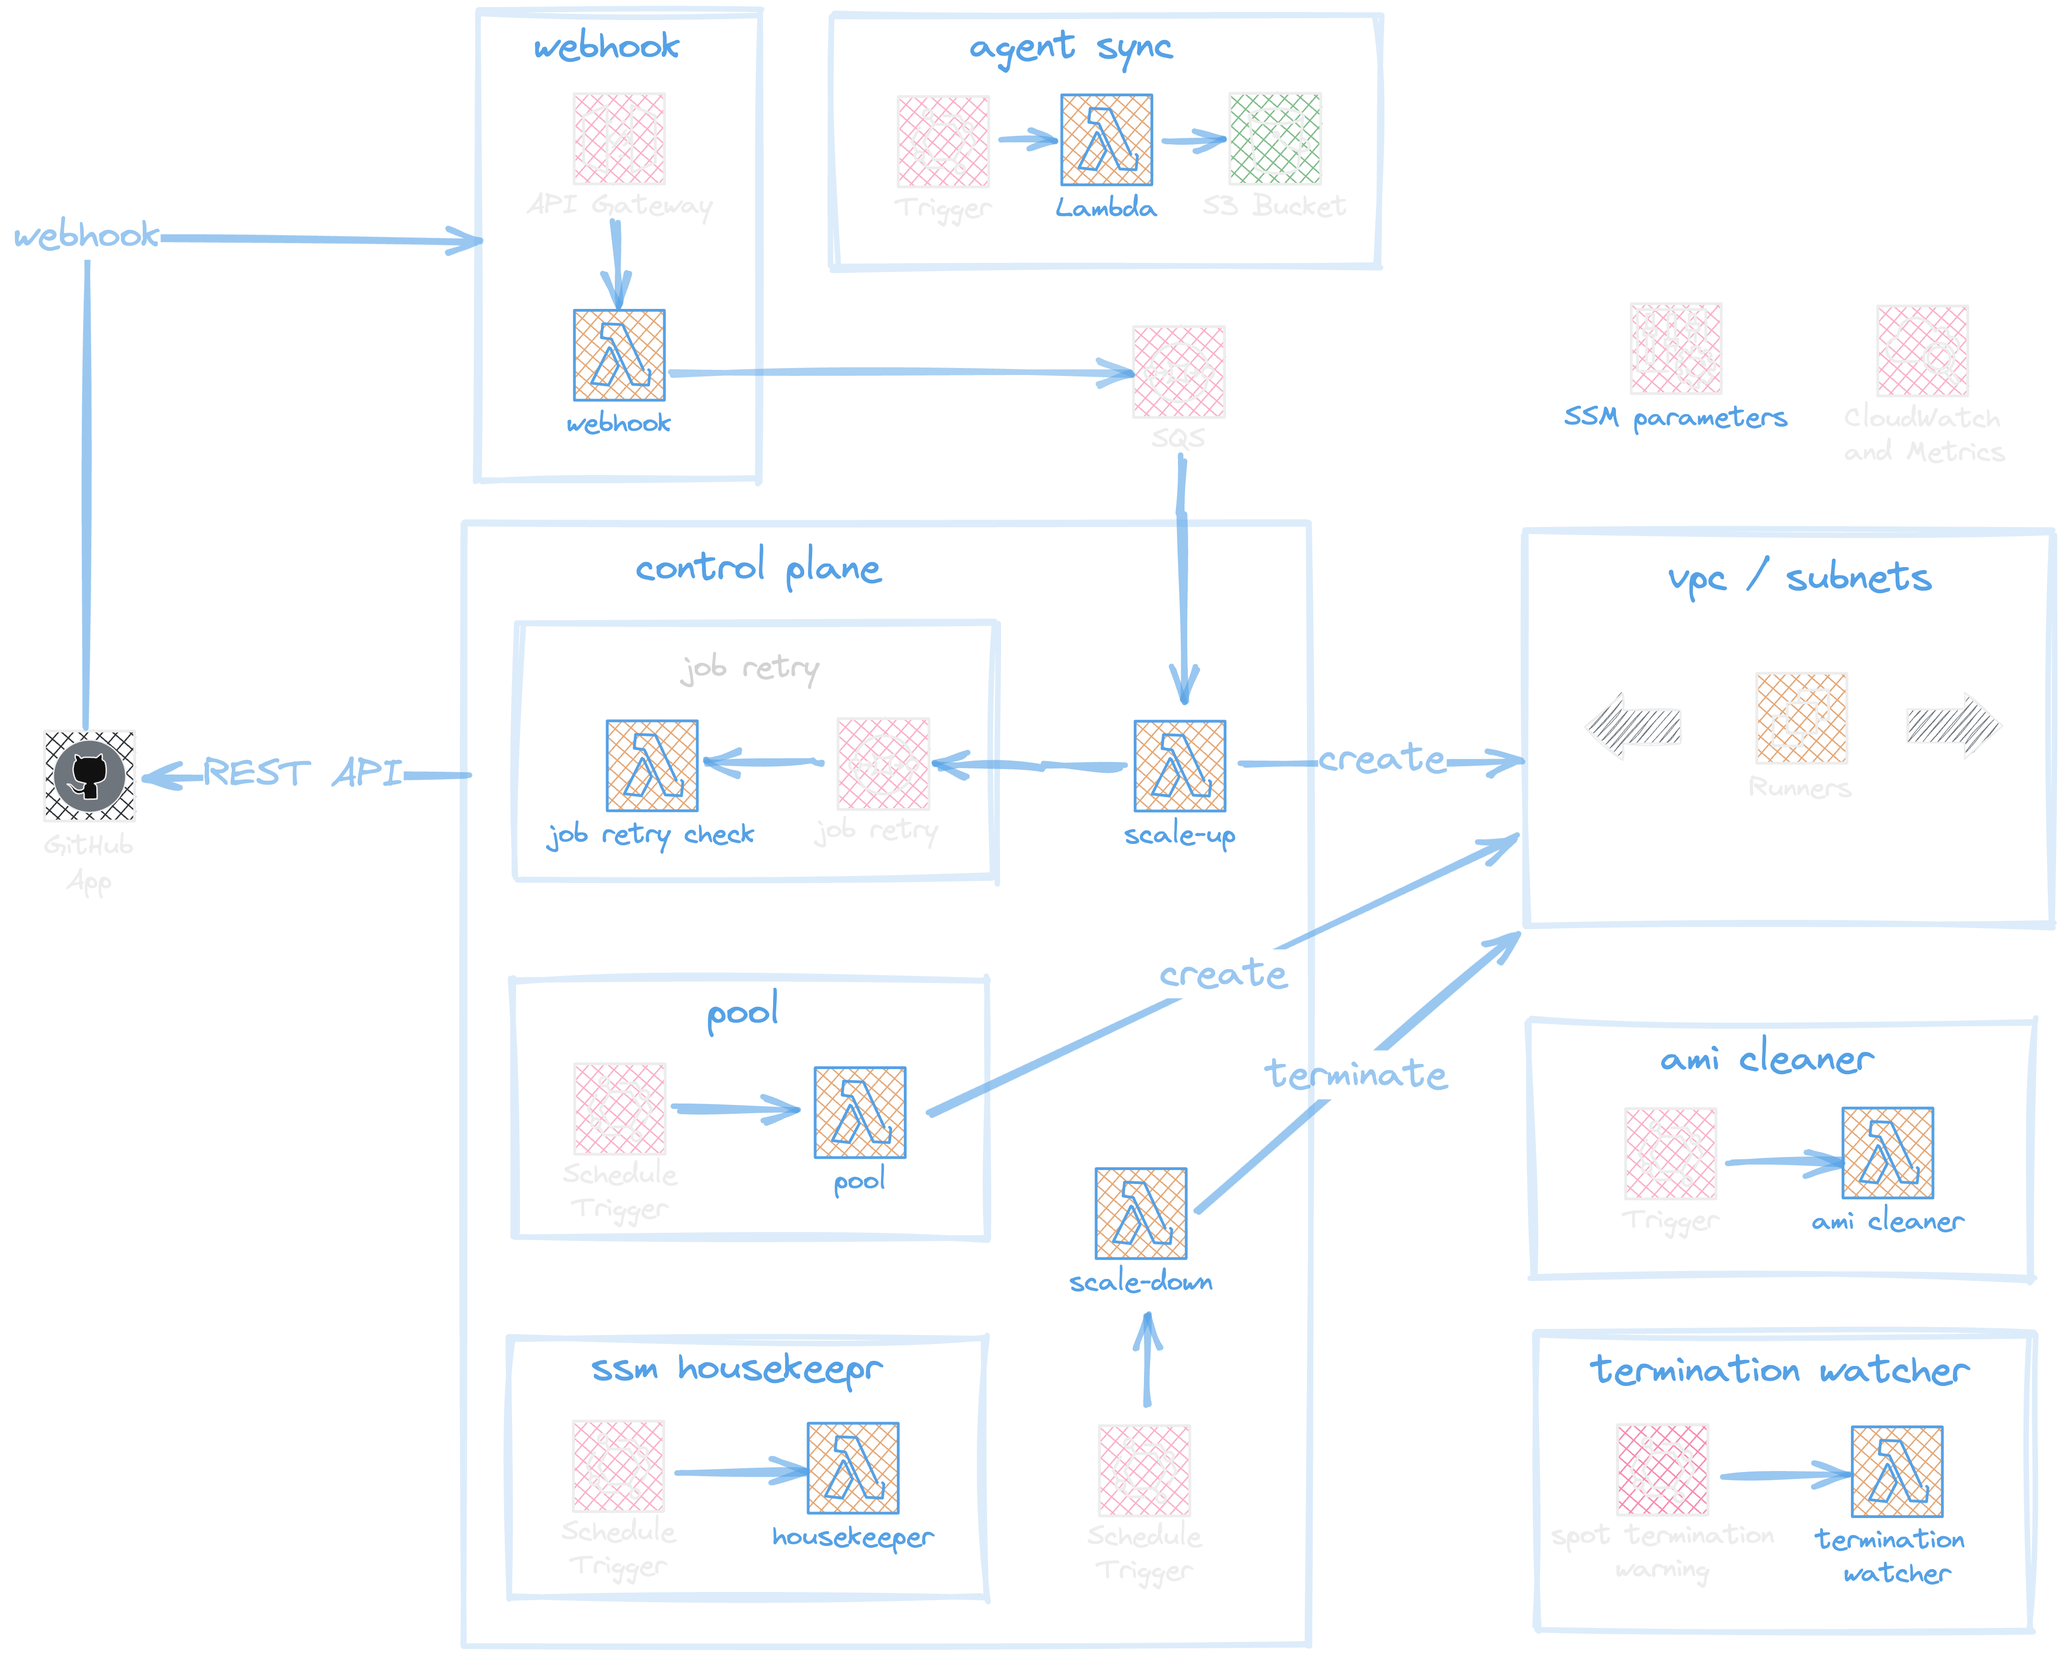
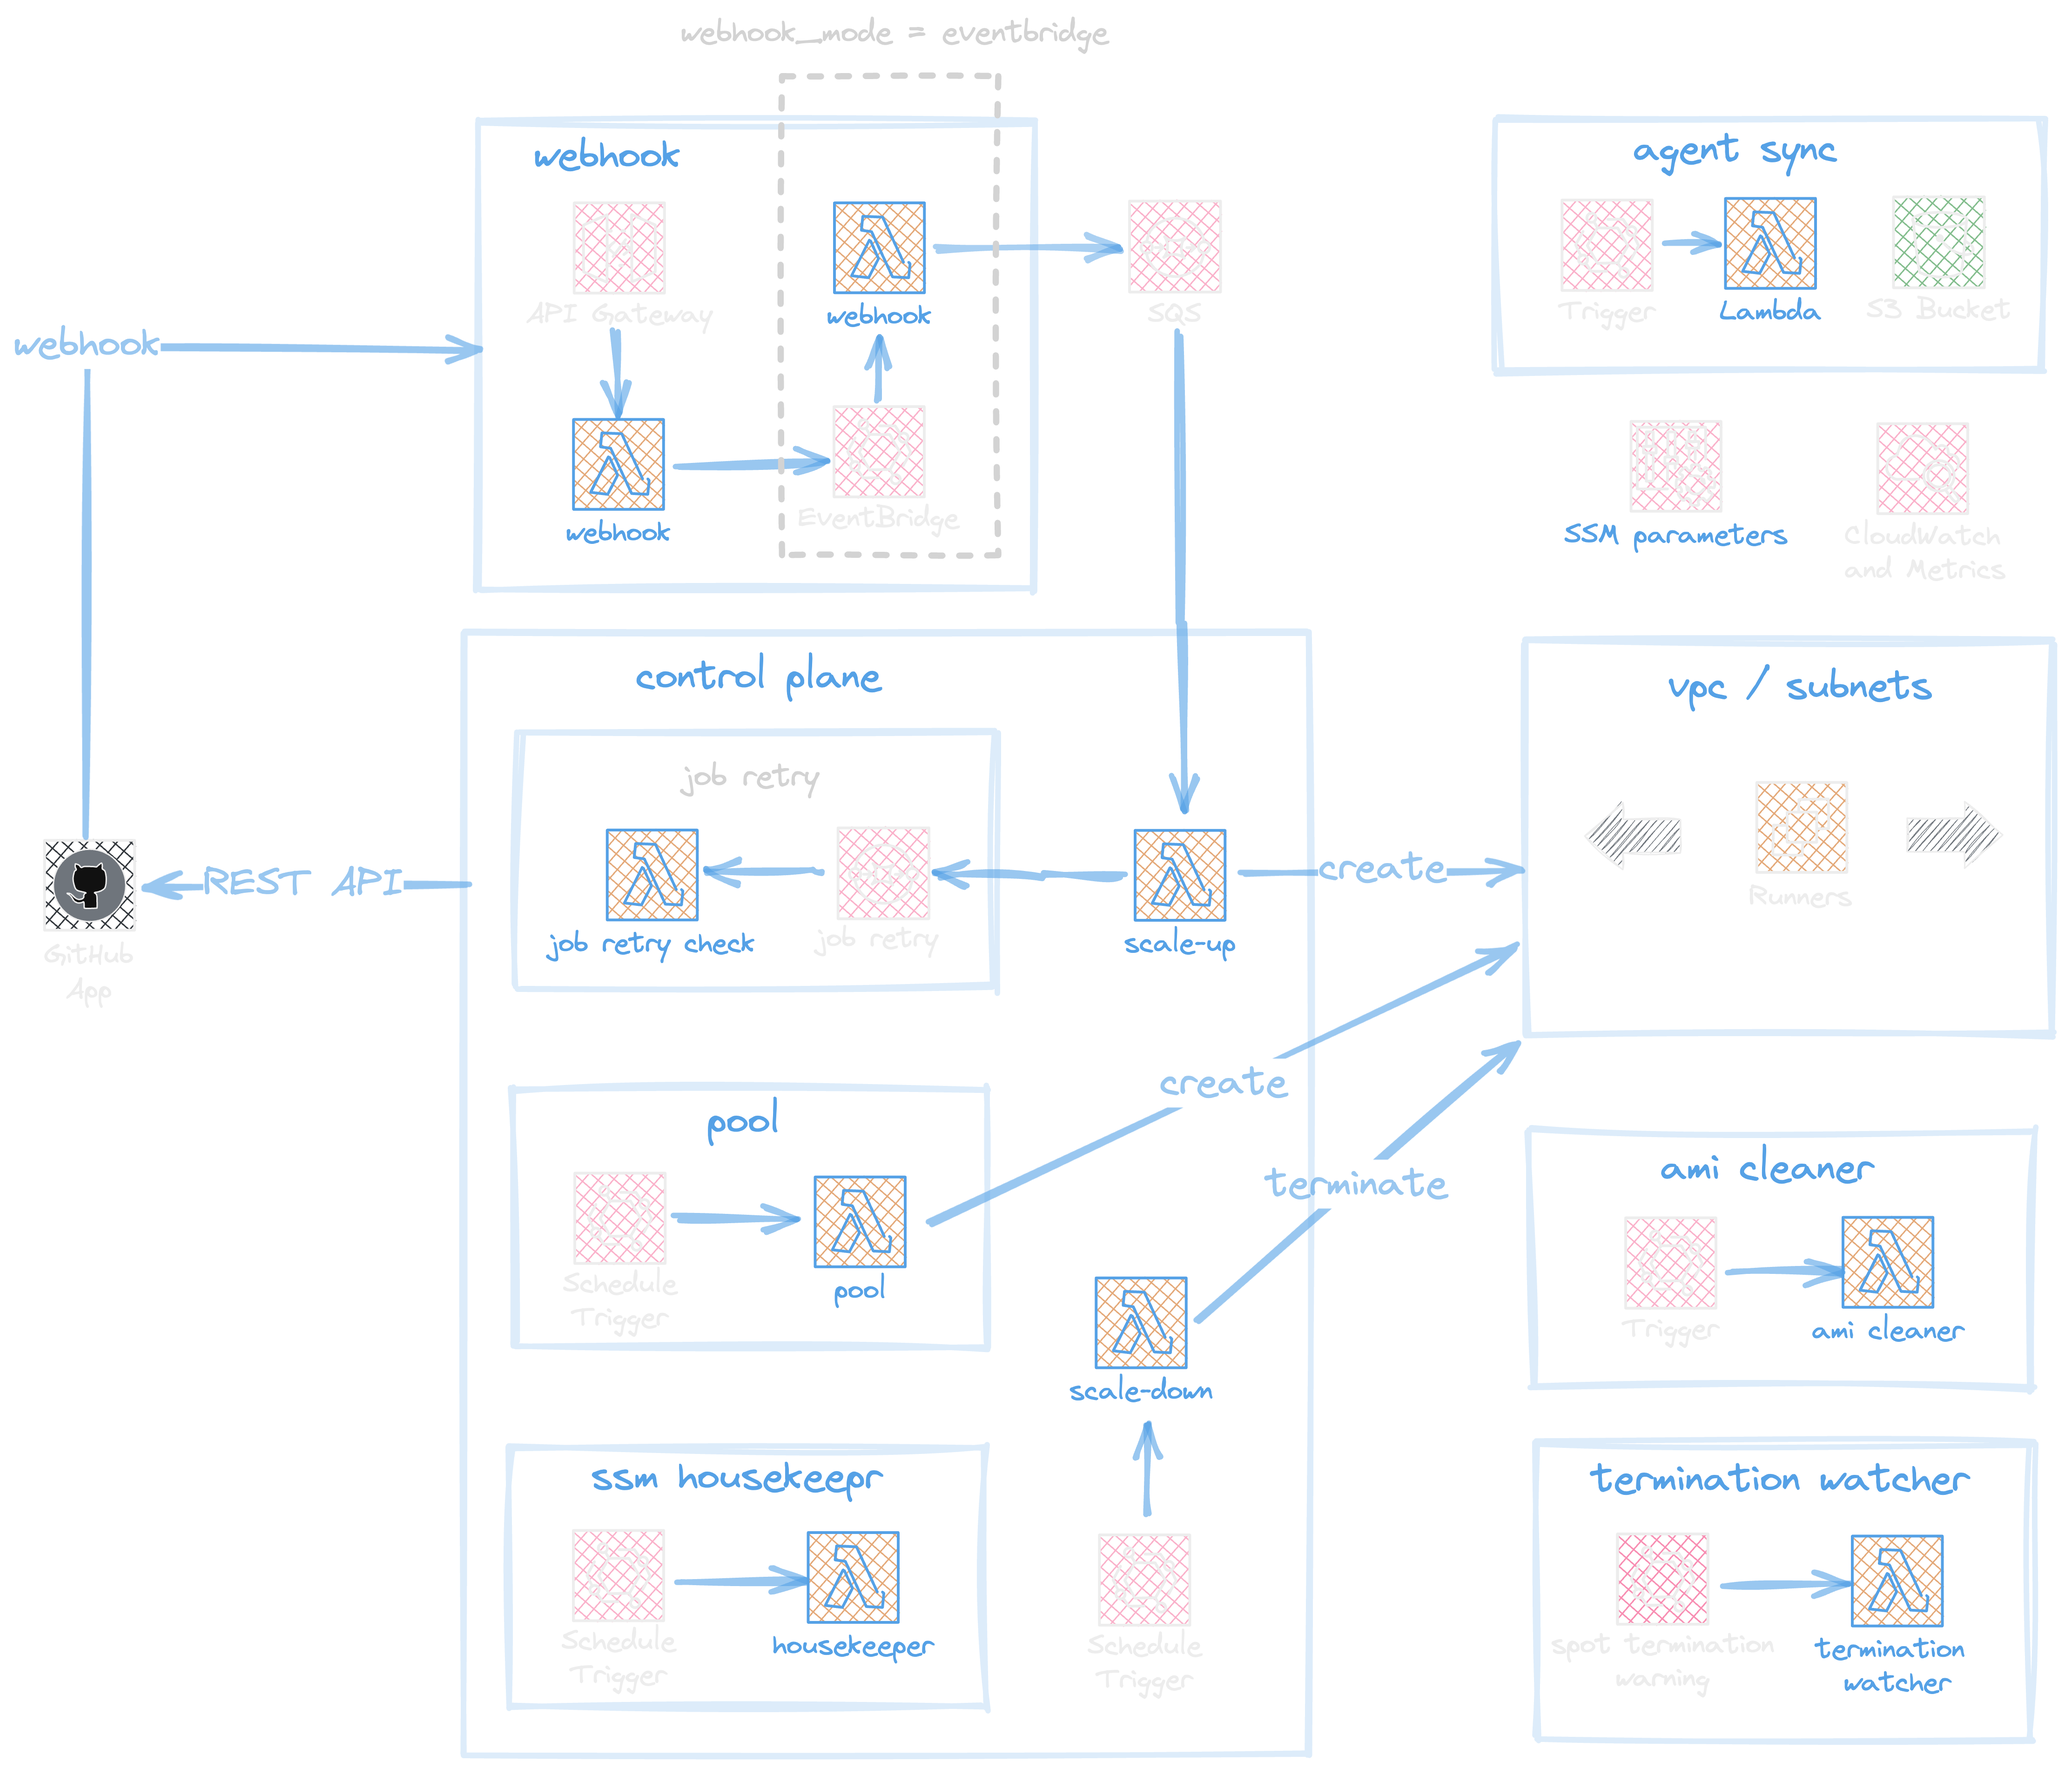
update docs

diff --git a/docs/configuration.md b/docs/configuration.md
@@ -6,7 +6,7 @@ To be able to support a number of use-cases, the module has quite a lot of confi
 
 - Org vs Repo level. You can configure the module to connect the runners in GitHub on an org level and share the runners in your org, or set the runners on repo level and the module will install the runner to the repo. There can be multiple repos but runners are not shared between repos.
 - Multi-Runner module. This modules allows you to create multiple runner configurations with a single webhook and single GitHub App to simplify deployment of different types of runners. Check the detailed module [documentation](modules/public/multi-runner.md) for more information or checkout the [multi-runner example](examples/multi-runner.md).
-- Workflow job event. You can configure the webhook in GitHub to send workflow job events to the webhook. Workflow job events were introduced by GitHub in September 2021 and are designed to support scalable runners. We advise using the workflow job event when possible.
+- Webhook mode, the module can be deployed in the mode `direct` and `eventbridge`. The `direct` mode is the default and will directly distribute to SQS for the scale-up lambda. The `eventbridge` mode will publish the event to an event bus with a target rule the events are sent to a dispatch lambda. The dispatch lambda will send the event to the SQS queue. The `eventbridge` mode is useful when you want to have more control over the events and potentially filter them. The `eventbridge` mode is disabled by default. We expect thhe `eventbridge` mode will be the future direction to build a data lake, build metrics, acto on `workflow_job` job started events, etc.
 - Linux vs Windows. You can configure the OS types linux and win. Linux will be used by default.
 - Re-use vs Ephemeral. By default runners are re-used, until detected idle. Once idle they will be removed from the pool. To improve security we are introducing ephemeral runners. Those runners are only used for one job. Ephemeral runners only work in combination with the workflow job event. For ephemeral runners the lambda requests a JIT (just in time) configuration via the GitHub API to register the runner. [JIT configuration](https://docs.github.com/en/actions/security-guides/security-hardening-for-github-actions#using-just-in-time-runners) is limited to ephemeral runners (and currently not supported by GHES). For non-ephemeral runners, a registration token is always requested. In both cases the configuration is made available to the instance via the same SSM parameter. To disable JIT configuration for ephemeral runners set `enable_jit_config` to `false`. We also suggest using a pre-build AMI to improve the start time of jobs for ephemeral runners.
 - Job retry (**Beta**). By default the scale-up lambda will discard the message when it is handled. Meaning in the ephemeral use-case an instance is created. The created runner will ask GitHub for a job, no guarantee it will run the job for which it was scaling. Result could be that with small system hick-up the job is keeping waiting for a runner. Enable a pool (org runners) is one option to avoid this problem. Another option is to enable the job retry function. Which will retry the job after a delay for a configured number of times.

diff --git a/docs/index.md b/docs/index.md
@@ -31,7 +31,7 @@ The diagram below shows the architecture of the module, groups are indicating th
 
 ### Webhook
 
-The moment a GitHub action workflow requiring a `self-hosted` runner is triggered, GitHub will try to find a runner which can execute the workload. See [additional notes](additional_notes.md) for how the selection is made. This module reacts to GitHub's [`workflow_job` event](https://docs.github.com/en/free-pro-team@latest/developers/webhooks-and-events/webhook-events-and-payloads#workflow_job) for the triggered workflow and creates a new runner if necessary.
+The moment a GitHub action workflow requiring a `self-hosted` runner is triggered, GitHub will try to find a runner which can execute the workload. See [additional notes](additional_notes.md) for how the selection is made. The module can be deployed in two modes. One mode called `direct`, after accepting the [`workflow_job` event](https://docs.github.com/en/free-pro-team@latest/developers/webhooks-and-events/webhook-events-and-payloads#workflow_job) event the module will dispatch the event to a SQS queue on which the scale-up function will act. The second mode, `eventbridge` will funnel events via the AWS EventBridge. the EventBridge enables act on other events then only the `workflow_job` event with status `queued`. besides that the EventBridge suppors replay functionality. For futurue exenstions to act on events or create a data lake we will relay on the EventBridge.
 
 For receiving the `workflow_job` event by the webhook (lambda), a webhook needs to be created in GitHub. The same app as for API calls can be used to create the webhook. Or a dedicated webhook can be defined.
 
